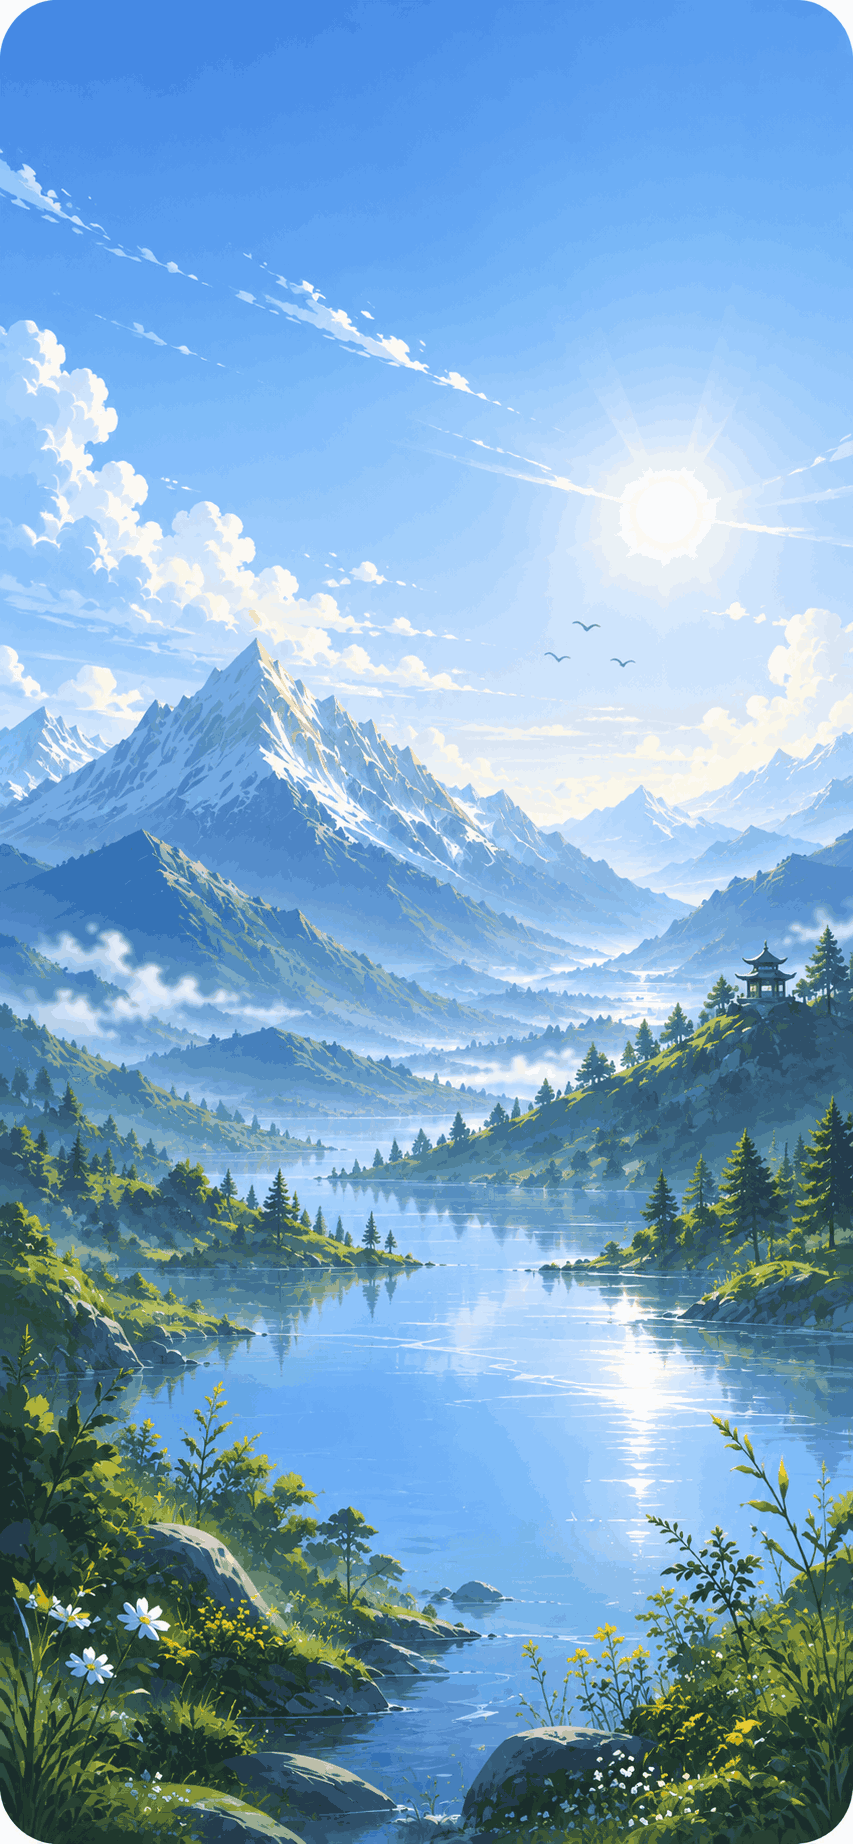
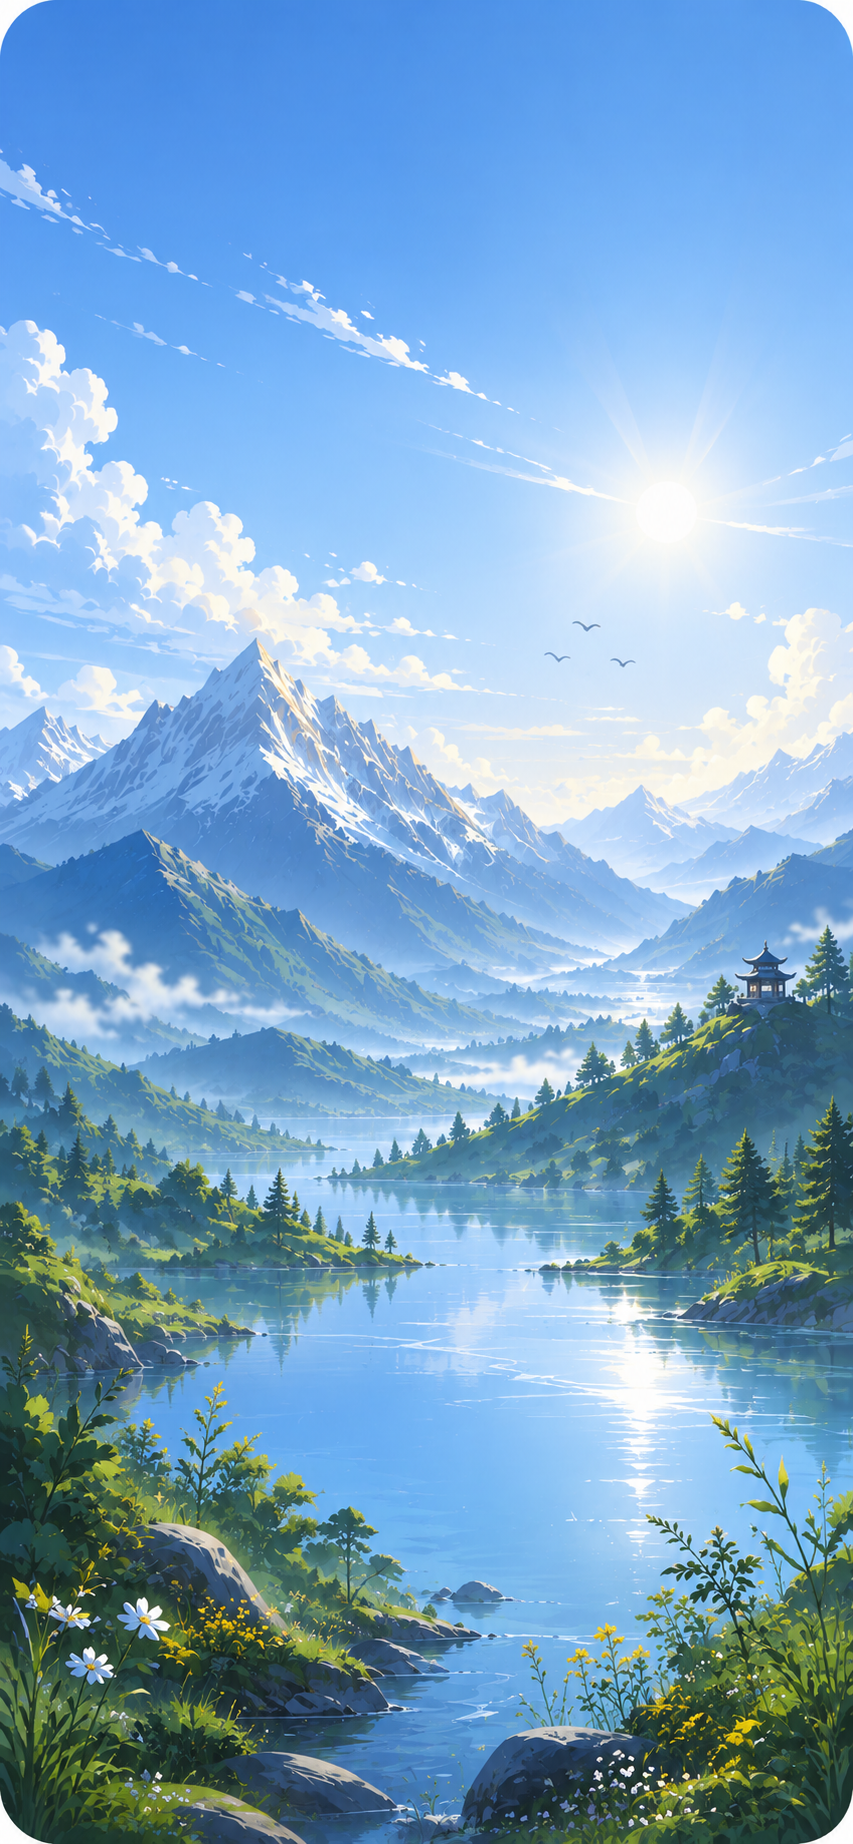
upgrade

diff --git a/lib/screens/focus_screen.dart b/lib/screens/focus_screen.dart
@@ -41,9 +41,9 @@ class _FocusScreenState extends State<FocusScreen> {
   ];
 
   String get _greeting {
-    final hour = DateTime.now().hour;
-    if (hour < 12) return 'Good morning';
-    if (hour < 17) return 'Good afternoon';
+    final time = DateTime.now().hour + DateTime.now().minute / 60.0;
+    if (time >= 5.0 && time < 11.5) return 'Good morning';
+    if (time >= 11.5 && time < 16.0) return 'Good afternoon';
     return 'Good evening';
   }
 
@@ -65,13 +65,18 @@ class _FocusScreenState extends State<FocusScreen> {
   }
 
   String get _bgImagePath {
-    final hour = DateTime.now().hour;
+    final time = DateTime.now().hour + DateTime.now().minute / 60.0;
     
     String timeSlot;
-    if (hour < 12) timeSlot = 'morning';
-    else if (hour < 17) timeSlot = 'afternoon';
-    else if (hour < 20) timeSlot = 'evening';
-    else timeSlot = 'night';
+    if (time >= 5.0 && time < 11.5) {
+      timeSlot = 'morning';
+    } else if (time >= 11.5 && time < 16.0) {
+      timeSlot = 'afternoon';
+    } else if (time >= 16.0 && time < 18.5) {
+      timeSlot = 'evening';
+    } else {
+      timeSlot = 'night';
+    }
 
     return 'assets/welcome_bg/one_light/$timeSlot.png';
   }

diff --git a/lib/screens/timetable_screen.dart b/lib/screens/timetable_screen.dart
@@ -571,10 +571,10 @@ class _TimetableScreenState extends State<TimetableScreen>
         bottom: _userTimetable == null
             ? null
             : PreferredSize(
-                preferredSize: const Size.fromHeight(58),
+                preferredSize: const Size.fromHeight(74),
                 child: Container(
                   alignment: Alignment.centerLeft,
-                  padding: const EdgeInsets.fromLTRB(16, 0, 16, 12),
+                  padding: const EdgeInsets.fromLTRB(16, 16, 16, 12),
                   child: Container(
                     padding: const EdgeInsets.all(6),
                     decoration: BoxDecoration(

diff --git a/lib/main.dart b/lib/main.dart
@@ -1329,7 +1329,7 @@ class _LoginScreenState extends State<LoginScreen> {
               const SizedBox(height: 24),
               Center(
                 child: Text(
-                  'UTOPIA · designed by Inferno',
+                  'UTOPIA · Designed by Humans • Powered by AI',
                   style: GoogleFonts.outfit(
                     fontSize: 11,
                     color: U.dim,

diff --git a/lib/screens/profile_screen.dart b/lib/screens/profile_screen.dart
@@ -590,7 +590,7 @@ class _ProfileScreenState extends State<ProfileScreen> {
                 const SizedBox(height: 24),
                 Center(
                   child: Text(
-                    'UTOPIA · designed by Inferno',
+                    'UTOPIA · Designed by Humans • Powered by AI',
                     style: GoogleFonts.outfit(color: U.dim, fontSize: 11),
                   ),
                 ),